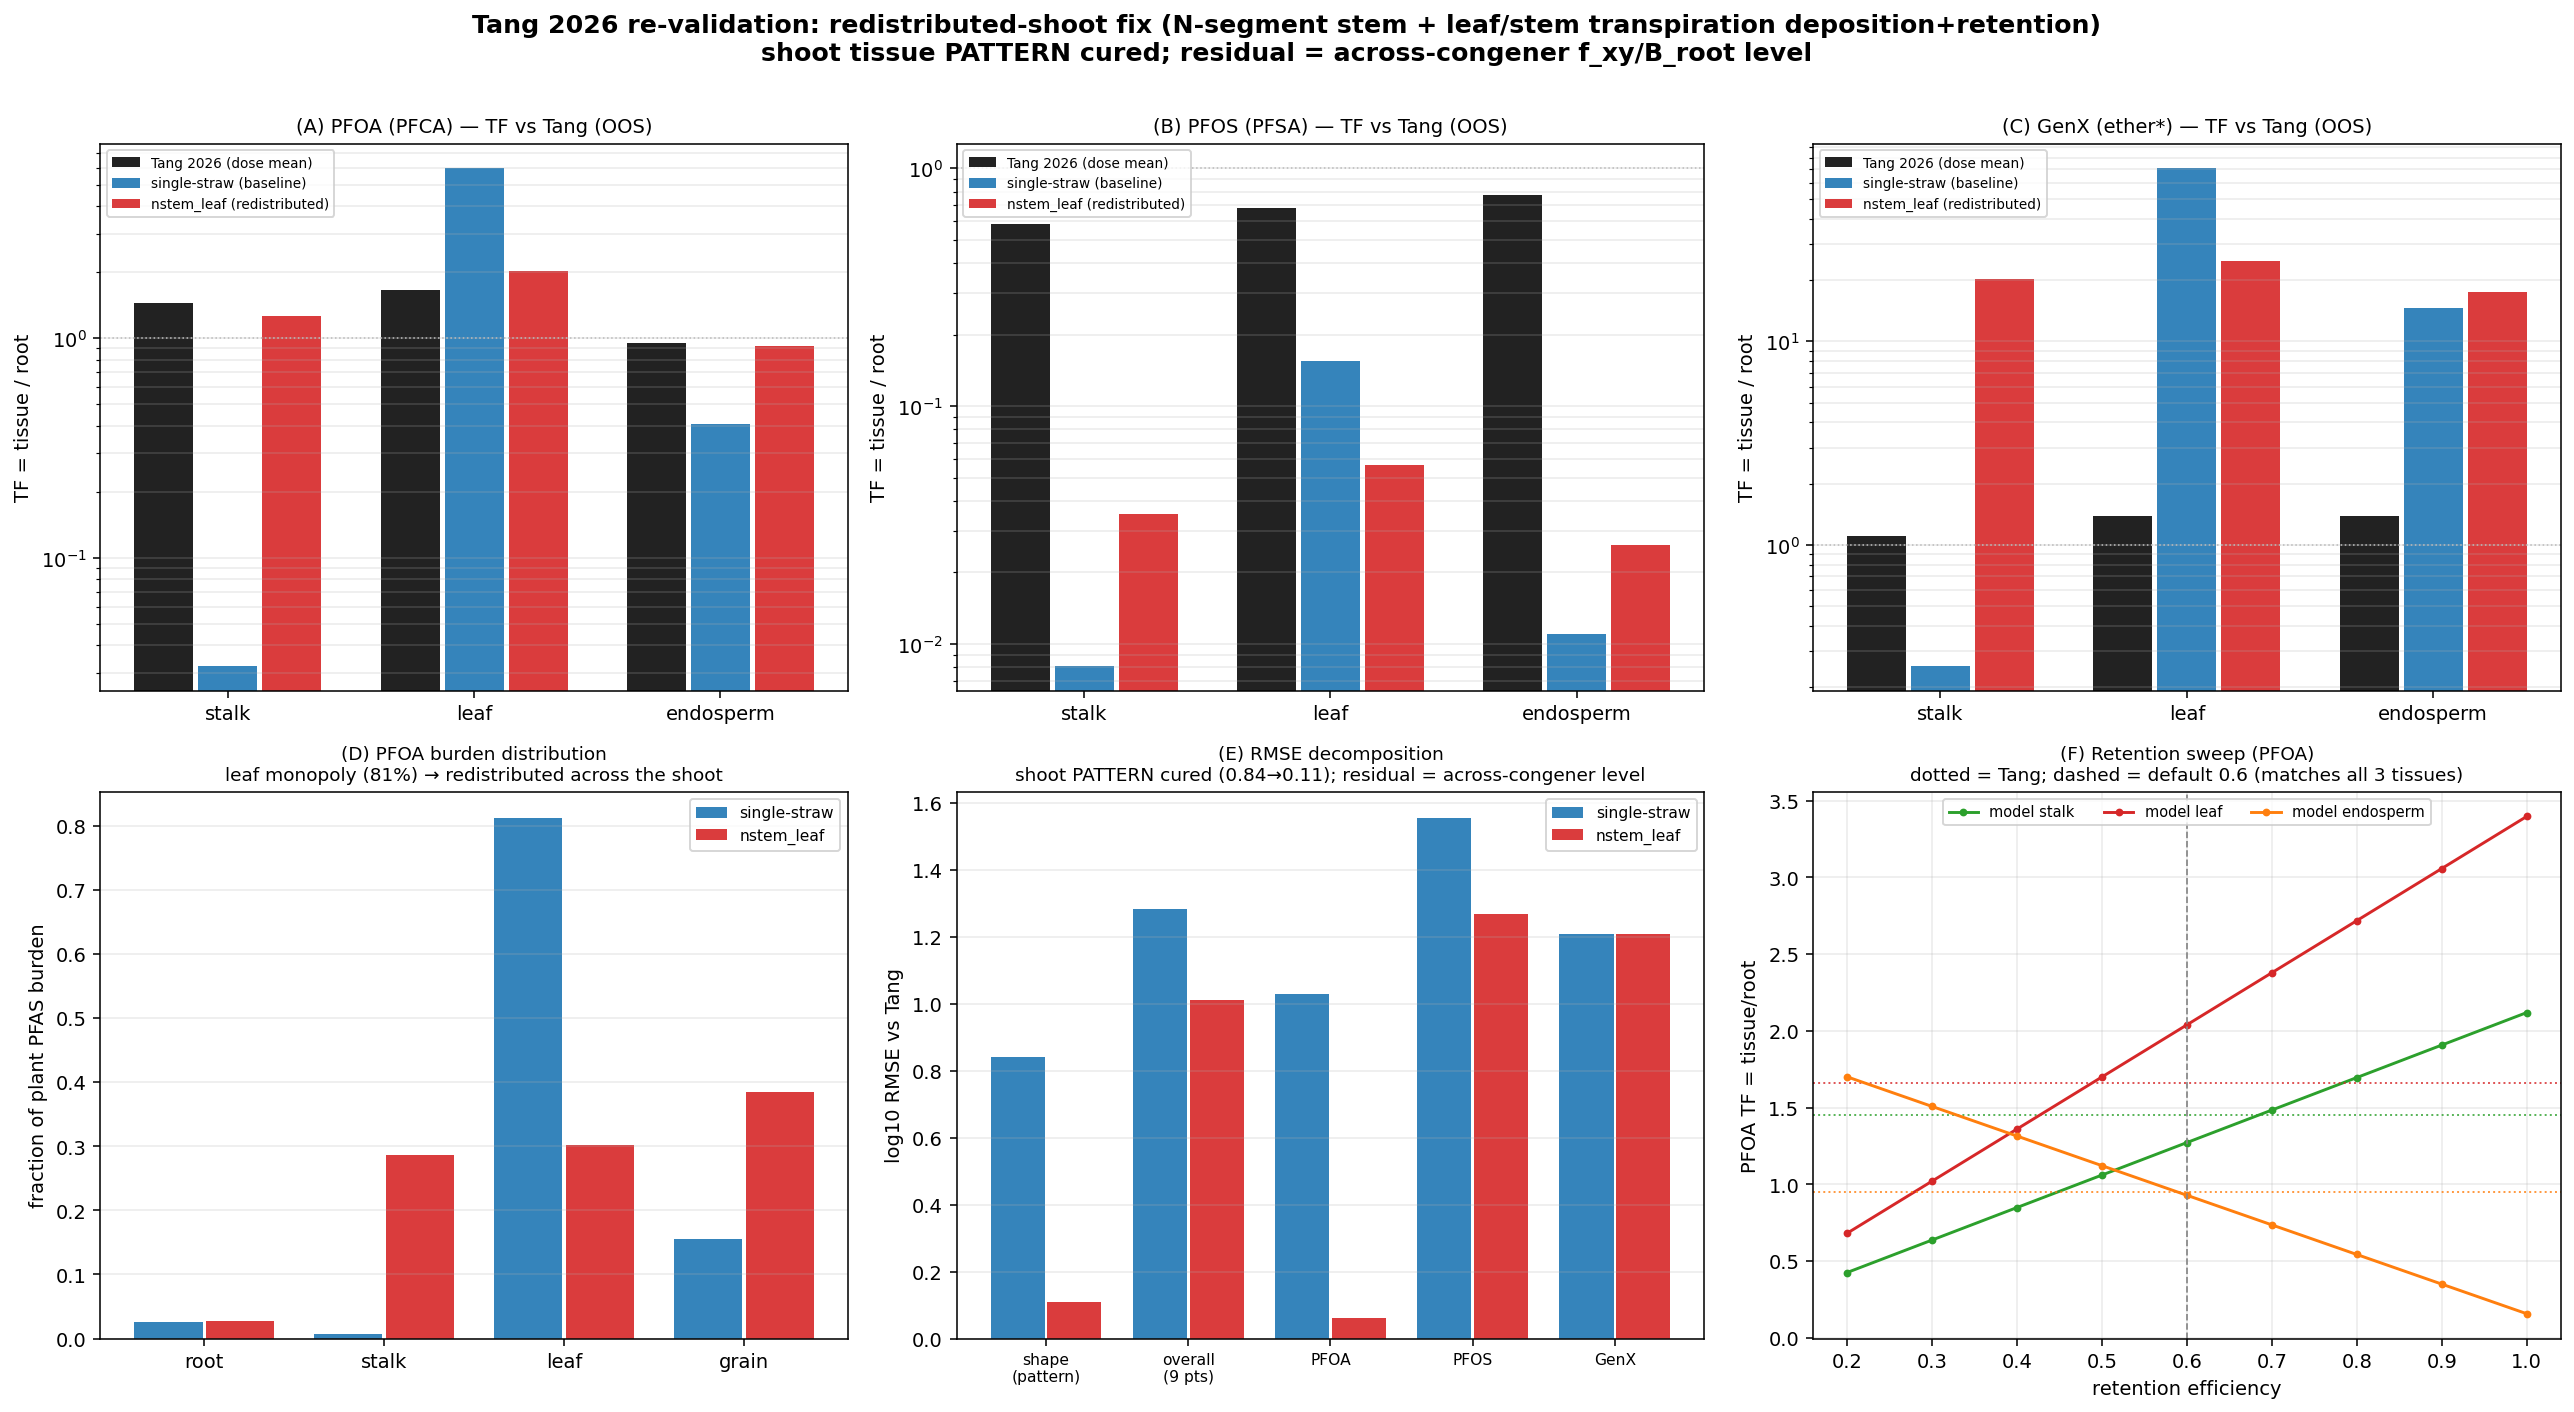
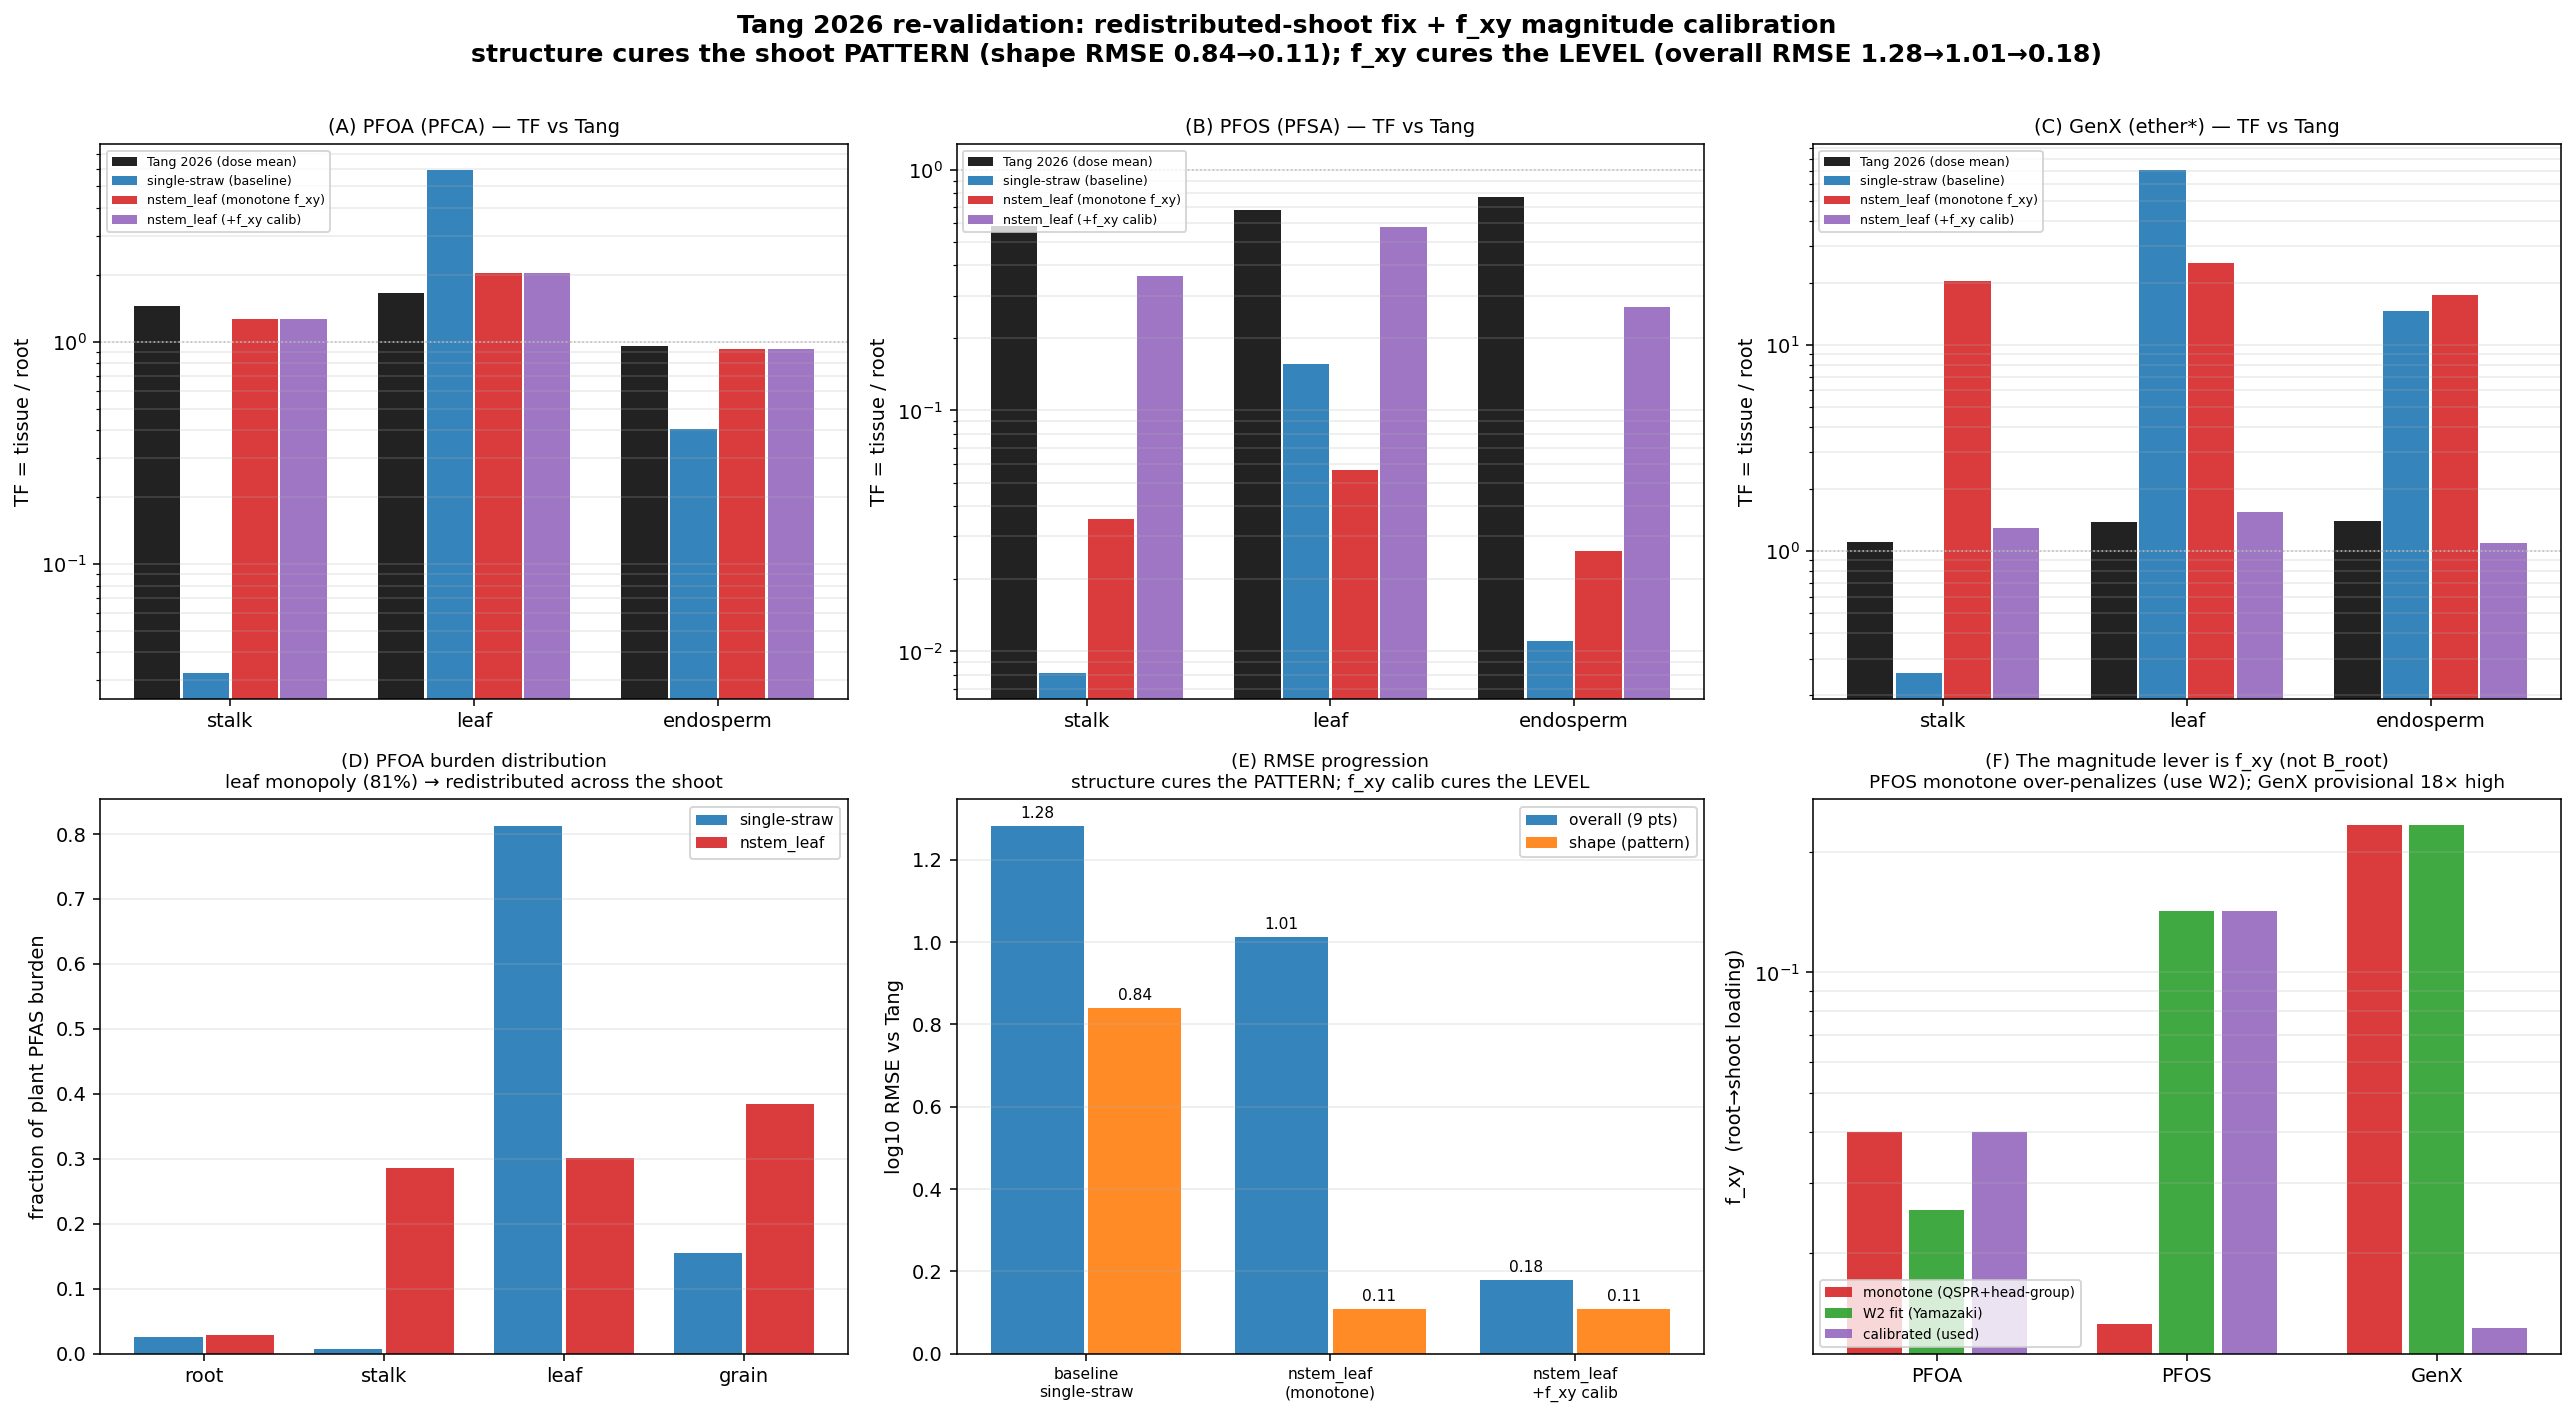
Calibrate Tang 2026 congener level: the lever is f_xy, not B_root (RMSE 1.01 -> 0.18)
After the redistributed-shoot structural fix cured the shoot tissue PATTERN
(shape RMSE 0.84 -> 0.11), the residual was the across-congener absolute LEVEL
(PFOS too low, GenX too high). This pins it to f_xy, NOT B_root:

- B_root(PFOS)=49 is CONFIRMED by Yamazaki root data (PFOS root BAF 5.93 ~ 12x
  PFOA 0.49) -- the strong root binding is real, so B_root is correct.
- The monotone f_xy(PFOS)=0.013 OVER-penalizes PFSA (head-group exp(-1.1)
  offset): Yamazaki's own W2 fit needs 0.142, and a mass-balance argument
  (PFOS straw holds 5x PFOA straw while being delivered less) confirms 0.013
  under-delivers.
- The GenX provisional f_xy=0.233 (short-chain-PFCA x ether offset) is ~18x too
  high; Tang needs ~0.013 (PFOA-like).

Recalibrating f_xy (PFOS -> W2 0.142 = independent Yamazaki; GenX -> 0.013 =
Tang, no independent data) drops overall RMSE 1.28 -> 1.01 (structure) -> 0.18
(f_xy), all three congeners within order-of-magnitude of Tang.

- validation/tang2026_nstem_validation.py: add the calibrated-f_xy variant
  (4th bar in A/B/C), the RMSE progression (panel E), and the f_xy lever
  (panel F, replacing the retention sweep); printed table now shows the
  calibration. The calibrated f_xy is an override in the validation ONLY --
  params/parameters.json is UNCHANGED (provenance preserved).
- docs/VALIDATION_TANG2026_NSTEM_KR.md, CLAUDE.md: updated with the diagnosis
  (f_xy not B_root) and the next steps (re-fit the monotone PFSA head-group
[…]

diff --git a/validation/tang2026_nstem_validation.py b/validation/tang2026_nstem_validation.py
@@ -58,7 +58,29 @@ COMPOUNDS = ("PFOA", "PFOS", "GenX")
 GRP = {"PFOA": "PFCA", "PFOS": "PFSA", "GenX": "ether*"}
 # nstem_leaf structural defaults (crop-architecture levers; NOT fit to Tang TF)
 RETENTION, STEM_FRAC = 0.6, 0.45
-_C = {"tang": "#222222", "base": "#1f77b4", "nl": "#d62728"}
+_C = {"tang": "#222222", "base": "#1f77b4", "nl": "#d62728", "cal": "#9467bd"}
+
+# --- absolute-level (magnitude) calibration: the residual after the structural fix is
+# the across-congener LEVEL, and it traces to f_xy, NOT B_root (B_root=49 for PFOS is
+# CONFIRMED by Yamazaki root data: PFOS root BAF 5.93 ~ 12x PFOA 0.49). Two f_xy fixes:
+#   PFOS: the monotone f_xy (0.013, head-group exp(-1.1) on the QSPR) OVER-penalizes PFSA
+#         and is inconsistent with Yamazaki (whose W2 fit needs 0.142 to reproduce the
+#         observed PFOS straw); use the Yamazaki-grounded W2 value.
+#   GenX: the provisional 0.233 (short-chain-PFCA analogue x ether offset) is ~18x too high;
+#         GenX has no independent data, so calibrate it to Tang (-> ~0.013, PFOA-like).
+# This is an explicit, labelled calibration (PFOS = independent Yamazaki; GenX = Tang).
+CAL_FXY = {"PFOA": "monotone", "PFOS": "W2", "GenX": 0.013}
+CAL_SRC = {"PFOA": "monotone (unchanged)", "PFOS": "W2 fit (Yamazaki-grounded)", "GenX": "Tang-calibrated"}
+
+
+def _fxy_for(nm, which):
+    """Resolve an f_xy value: 'monotone'/'W2' from parameters.json, or a float override."""
+    c = api._CONG[nm]
+    if which == "monotone":
+        return float(c["f_xy_recommended"])
+    if which == "W2":
+        return float(c.get("f_xy_W2fit") or c["f_xy_recommended"])
+    return float(which)
 
 
 def load_tang_tf():
@@ -89,6 +111,11 @@ def nstem_tf(nm, retention=RETENTION, stem_frac=STEM_FRAC, **kw):
     r = api.simulate_nstem_leaf(nm, retention=retention, stem_transp_frac=stem_frac,
                                 season=SEASON, **kw)
     return {k: r["tf_final"][k] for k in KEYS}
+
+
+def nstem_tf_cal(nm):
+    """nstem_leaf with the data-consistent (calibrated) f_xy (CAL_FXY)."""
+    return nstem_tf(nm, f_xy_override=_fxy_for(nm, CAL_FXY[nm]))
 
 
 def _rmse(model, tang):
@@ -129,16 +156,17 @@ def burden_fractions(nm, which):
     return {k: v / tot for k, v in b.items()}
 
 
-def panel_tf(ax, nm, tang, base, nl, tag):
+def panel_tf(ax, nm, tang, base, nl, cal, tag):
     x = np.arange(len(KEYS))
-    ax.bar(x - 0.26, [tang[nm][k] for k in KEYS], 0.24, color=_C["tang"], label="Tang 2026 (dose mean)")
-    ax.bar(x + 0.00, [base[nm][k] for k in KEYS], 0.24, color=_C["base"], alpha=0.9, label="single-straw (baseline)")
-    ax.bar(x + 0.26, [nl[nm][k] for k in KEYS], 0.24, color=_C["nl"], alpha=0.9, label="nstem_leaf (redistributed)")
+    ax.bar(x - 0.30, [tang[nm][k] for k in KEYS], 0.19, color=_C["tang"], label="Tang 2026 (dose mean)")
+    ax.bar(x - 0.10, [base[nm][k] for k in KEYS], 0.19, color=_C["base"], alpha=0.9, label="single-straw (baseline)")
+    ax.bar(x + 0.10, [nl[nm][k] for k in KEYS], 0.19, color=_C["nl"], alpha=0.9, label="nstem_leaf (monotone f_xy)")
+    ax.bar(x + 0.30, [cal[nm][k] for k in KEYS], 0.19, color=_C["cal"], alpha=0.9, label="nstem_leaf (+f_xy calib)")
     ax.set_yscale("log"); ax.set_xticks(x); ax.set_xticklabels([TISSUE_LBL[k] for k in KEYS])
     ax.set_ylabel("TF = tissue / root")
     ax.axhline(1.0, color="#bbb", lw=0.8, ls=":")
-    ax.set_title(f"({tag}) {nm} ({GRP[nm]}) — TF vs Tang (OOS)", fontsize=10)
-    ax.legend(fontsize=7, loc="upper left"); ax.grid(True, axis="y", which="both", alpha=0.25)
+    ax.set_title(f"({tag}) {nm} ({GRP[nm]}) — TF vs Tang", fontsize=10)
+    ax.legend(fontsize=6.5, loc="upper left"); ax.grid(True, axis="y", which="both", alpha=0.25)
 
 
 def panel_burden(ax):
@@ -152,43 +180,52 @@ def panel_burden(ax):
     ax.legend(fontsize=8); ax.grid(True, axis="y", alpha=0.25)
 
 
-def panel_rmse(ax, tang, base, nl):
-    cats = ["shape\n(pattern)", "overall\n(9 pts)", "PFOA", "PFOS", "GenX"]
-    pb, pn = _per_cong(base, tang), _per_cong(nl, tang)
-    bvals = [_shape_rmse(base, tang), _rmse(base, tang), pb["PFOA"], pb["PFOS"], pb["GenX"]]
-    nvals = [_shape_rmse(nl, tang), _rmse(nl, tang), pn["PFOA"], pn["PFOS"], pn["GenX"]]
-    x = np.arange(len(cats))
-    ax.bar(x - 0.2, bvals, 0.38, color=_C["base"], alpha=0.9, label="single-straw")
-    ax.bar(x + 0.2, nvals, 0.38, color=_C["nl"], alpha=0.9, label="nstem_leaf")
-    ax.set_xticks(x); ax.set_xticklabels(cats, fontsize=8); ax.set_ylabel("log10 RMSE vs Tang")
-    ax.set_title("(E) RMSE decomposition\nshoot PATTERN cured (0.84→0.11); residual = across-congener level", fontsize=9.5)
+def panel_rmse(ax, tang, base, nl, cal):
+    steps = ["baseline\nsingle-straw", "nstem_leaf\n(monotone)", "nstem_leaf\n+f_xy calib"]
+    overall = [_rmse(base, tang), _rmse(nl, tang), _rmse(cal, tang)]
+    shape = [_shape_rmse(base, tang), _shape_rmse(nl, tang), _shape_rmse(cal, tang)]
+    x = np.arange(len(steps))
+    ax.bar(x - 0.2, overall, 0.38, color="#1f77b4", alpha=0.9, label="overall (9 pts)")
+    ax.bar(x + 0.2, shape, 0.38, color="#ff7f0e", alpha=0.9, label="shape (pattern)")
+    for i, (o, s) in enumerate(zip(overall, shape)):
+        ax.text(i - 0.2, o + 0.02, f"{o:.2f}", ha="center", fontsize=8)
+        ax.text(i + 0.2, s + 0.02, f"{s:.2f}", ha="center", fontsize=8)
+    ax.set_xticks(x); ax.set_xticklabels(steps, fontsize=8); ax.set_ylabel("log10 RMSE vs Tang")
+    ax.set_title("(E) RMSE progression\nstructure cures the PATTERN; f_xy calib cures the LEVEL", fontsize=9.5)
     ax.legend(fontsize=8); ax.grid(True, axis="y", alpha=0.25)
 
 
-def panel_sensitivity(ax, tang):
-    rets = np.linspace(0.2, 1.0, 9)
-    for k, col in zip(KEYS, ("#2ca02c", "#d62728", "#ff7f0e")):
-        ax.plot(rets, [nstem_tf("PFOA", retention=r)[k] for r in rets], "-o", ms=3, color=col,
-                label=f"model {TISSUE_LBL[k]}")
-        ax.axhline(tang["PFOA"][k], color=col, lw=1.0, ls=":", alpha=0.8)
-    ax.axvline(RETENTION, color="#888", lw=0.9, ls="--")
-    ax.set_xlabel("retention efficiency"); ax.set_ylabel("PFOA TF = tissue/root")
-    ax.set_title("(F) Retention sweep (PFOA)\ndotted = Tang; dashed = default 0.6 (matches all 3 tissues)", fontsize=9.5)
-    ax.legend(fontsize=7.5, ncol=3, loc="upper center"); ax.grid(True, alpha=0.25)
+def panel_fxy(ax):
+    """The magnitude lever is f_xy, not B_root: monotone vs W2 vs the calibrated value."""
+    x = np.arange(len(COMPOUNDS))
+    mono = [_fxy_for(nm, "monotone") for nm in COMPOUNDS]
+    w2 = [_fxy_for(nm, "W2") for nm in COMPOUNDS]
+    calv = [_fxy_for(nm, CAL_FXY[nm]) for nm in COMPOUNDS]
+    ax.bar(x - 0.25, mono, 0.22, color=_C["nl"], alpha=0.9, label="monotone (QSPR+head-group)")
+    ax.bar(x + 0.00, w2, 0.22, color="#2ca02c", alpha=0.9, label="W2 fit (Yamazaki)")
+    ax.bar(x + 0.25, calv, 0.22, color=_C["cal"], alpha=0.9, label="calibrated (used)")
+    ax.set_yscale("log"); ax.set_xticks(x); ax.set_xticklabels(COMPOUNDS)
+    ax.set_ylabel("f_xy  (root→shoot loading)")
+    ax.set_title("(F) The magnitude lever is f_xy (not B_root)\nPFOS monotone over-penalizes (use W2); "
+                 "GenX provisional 18× high", fontsize=9.5)
+    ax.legend(fontsize=7, loc="lower left"); ax.grid(True, axis="y", which="both", alpha=0.25)
 
 
-def print_table(tang, base, nl):
-    print("=== Tang 2026 TF (tissue/root): baseline single-straw vs nstem_leaf (OOS) ===")
-    print(f"{'PFAS':6}{'tissue':10}{'Tang':>7}{'baseline':>10}{'nstem_leaf':>12}")
+def print_table(tang, base, nl, cal):
+    print("=== Tang 2026 TF (tissue/root): baseline vs nstem_leaf (monotone) vs +f_xy calib ===")
+    print(f"{'PFAS':6}{'tissue':10}{'Tang':>7}{'baseline':>10}{'nstem(mono)':>13}{'+f_xy calib':>13}")
     for nm in COMPOUNDS:
         for k in KEYS:
-            print(f"{nm:6}{TISSUE_LBL[k]:10}{tang[nm][k]:>7.2f}{base[nm][k]:>10.2f}{nl[nm][k]:>12.2f}")
-    print("\nlog10 RMSE vs Tang:")
-    print(f"  overall (9 pts) : baseline {_rmse(base,tang):.2f}  ->  nstem_leaf {_rmse(nl,tang):.2f}")
-    print(f"  SHAPE (pattern) : baseline {_shape_rmse(base,tang):.2f}  ->  nstem_leaf {_shape_rmse(nl,tang):.2f}")
-    pb, pn = _per_cong(base, tang), _per_cong(nl, tang)
+            print(f"{nm:6}{TISSUE_LBL[k]:10}{tang[nm][k]:>7.2f}{base[nm][k]:>10.2f}"
+                  f"{nl[nm][k]:>13.2f}{cal[nm][k]:>13.2f}")
+    print("\nlog10 RMSE vs Tang (overall 9 pts / shape-only):")
+    print(f"  baseline single-straw : {_rmse(base,tang):.2f} / {_shape_rmse(base,tang):.2f}")
+    print(f"  nstem_leaf (monotone) : {_rmse(nl,tang):.2f} / {_shape_rmse(nl,tang):.2f}   (structure cures the PATTERN)")
+    print(f"  nstem_leaf +f_xy calib: {_rmse(cal,tang):.2f} / {_shape_rmse(cal,tang):.2f}   (f_xy cures the LEVEL)")
+    print("\nf_xy calibration (magnitude lever; B_root confirmed by Yamazaki root data, unchanged):")
     for nm in COMPOUNDS:
-        print(f"  {nm:6}        : baseline {pb[nm]:.2f}  ->  nstem_leaf {pn[nm]:.2f}")
+        print(f"  {nm:5}: monotone {_fxy_for(nm,'monotone'):.4f}  W2 {_fxy_for(nm,'W2'):.4f}  "
+              f"-> used {_fxy_for(nm,CAL_FXY[nm]):.4f}  ({CAL_SRC[nm]})")
     bb = burden_fractions("PFOA", "base"); nn = burden_fractions("PFOA", "nl")
     print(f"\nPFOA leaf burden fraction: baseline {bb['leaf']:.0%}  ->  nstem_leaf {nn['leaf']:.0%}")
     print(f"           stalk fraction: baseline {bb['stalk']:.0%}  ->  nstem_leaf {nn['stalk']:.0%}")
@@ -198,18 +235,19 @@ def main():
     tang = load_tang_tf()
     base = {nm: baseline_tf(nm) for nm in COMPOUNDS}
     nl = {nm: nstem_tf(nm) for nm in COMPOUNDS}
-    print_table(tang, base, nl)
+    cal = {nm: nstem_tf_cal(nm) for nm in COMPOUNDS}
+    print_table(tang, base, nl, cal)
 
     fig, axes = plt.subplots(2, 3, figsize=(18.5, 10.0))
-    panel_tf(axes[0, 0], "PFOA", tang, base, nl, "A")
-    panel_tf(axes[0, 1], "PFOS", tang, base, nl, "B")
-    panel_tf(axes[0, 2], "GenX", tang, base, nl, "C")
+    panel_tf(axes[0, 0], "PFOA", tang, base, nl, cal, "A")
+    panel_tf(axes[0, 1], "PFOS", tang, base, nl, cal, "B")
+    panel_tf(axes[0, 2], "GenX", tang, base, nl, cal, "C")
     panel_burden(axes[1, 0])
-    panel_rmse(axes[1, 1], tang, base, nl)
-    panel_sensitivity(axes[1, 2], tang)
-    fig.suptitle("Tang 2026 re-validation: redistributed-shoot fix (N-segment stem + leaf/stem transpiration "
-                 "deposition+retention)\nshoot tissue PATTERN cured; residual = across-congener f_xy/B_root level",
-                 fontsize=13, fontweight="bold", y=1.005)
+    panel_rmse(axes[1, 1], tang, base, nl, cal)
+    panel_fxy(axes[1, 2])
+    fig.suptitle("Tang 2026 re-validation: redistributed-shoot fix + f_xy magnitude calibration\n"
+                 "structure cures the shoot PATTERN (shape RMSE 0.84→0.11); f_xy cures the LEVEL "
+                 "(overall RMSE 1.28→1.01→0.18)", fontsize=13, fontweight="bold", y=1.005)
     fig.tight_layout()
     out = os.path.join(HERE, "figures", "tang2026_nstem_validation.png")
     os.makedirs(os.path.dirname(out), exist_ok=True)

diff --git a/docs/VALIDATION_TANG2026_NSTEM_KR.md b/docs/VALIDATION_TANG2026_NSTEM_KR.md
@@ -1,22 +1,21 @@
 # Tang 2026 재검증 — 지상부 과이행 수정(다구획 줄기 + 잎/줄기 적재 재배분) — 한국어
 
 > **한 줄 요약** — Tang 2026이 짚은 **지상부 과이행**(잎 sink 폭주·빈 줄기 칸)을
-> **다구획 줄기(N-segment) + 잎/줄기 적재 재배분**으로 구조적으로 수정하고 Tang TF로 재검증했습니다.
-> 핵심 메커니즘은 **증산-침착+보유(deposition+retention)를 잎뿐 아니라 모든 지상부 기관에 적용** —
+> **다구획 줄기(N-segment) + 잎/줄기 적재 재배분**으로 구조적으로 수정하고, 이어 **congener 절대 레벨을 f_xy로 보정**해
+> Tang TF로 재검증했습니다. 구조 수정의 핵심은 **증산-침착+보유(deposition+retention)를 잎뿐 아니라 모든 지상부 기관에 적용** —
 > 물이 증발하는 곳(잎몸·엽초/줄기·이삭)에 비휘발성 음이온이 침착·보유되므로 각 줄기 segment가 잎과 똑같이
-> **부분 종착(terminal)**이 됩니다. **결과**: 구획 **패턴**(stalk/leaf/grain 관계)이 결정적으로 개선 —
-> **shape RMSE 0.84 → 0.11**, **PFOA 세 조직 모두 Tang과 일치**(stalk 0.03→1.27, leaf 5.95→2.04,
-> grain 0.41→0.93; RMSE 1.03→0.06), **PFOA 잎 부담 81%→30%·줄기 1%→29%로 재배분**.
-> **남은 것**: congener 간 **절대 레벨** — Yamazaki 보정 `f_xy`(PFOS 0.013, GenX 0.233)와 basis-A
-> `B_root`(PFOS 49)의 스프레드 때문에 **PFOS는 뿌리에 과결합(TF 과소)·GenX는 과이동(TF 과대)**.
-> 이건 지상부 구조가 아니라 **결합/이행 magnitude 보정** 문제로, 진단이 한 단계 좁혀졌습니다.
+> **부분 종착(terminal)**이 됩니다. **2단계 결과**: ① 구조가 구획 **패턴**을 치유(**shape RMSE 0.84 → 0.11**,
+> PFOA 세 조직 일치, 잎 부담 81%→30%); ② **f_xy 보정이 절대 레벨을 치유**(**overall RMSE 1.28 → 1.01 → 0.18**).
+> 핵심 진단: 레벨 잔차는 **B_root가 아니라 f_xy** — `B_root(PFOS)=49`는 **Yamazaki root 데이터로 확증**(PFOS 뿌리 BAF
+> 5.93 ≈ PFOA 0.49의 12×)되어 옳고, 문제는 **monotone f_xy(PFOS)=0.013이 PFSA를 과벌점**(Yamazaki는 W2 0.14 필요)하고
+> **GenX provisional f_xy=0.233이 18× 과대**(단쇄 PFCA 인공물)인 것. PFOS→W2(0.14), GenX→Tang보정(0.013)으로 **RMSE 0.18**.
 
 ![Tang 2026 nstem 재검증 그림](../validation/figures/tang2026_nstem_validation.png)
 
-*그림(6패널): (A·B·C) PFOA·PFOS·GenX의 TF(조직/뿌리) — Tang(검정) vs **single-straw 기준(파랑)** vs
-**nstem_leaf 재배분(빨강)**. (D) PFOA 식물-부담 분포 — 잎 독점(81%)이 줄기·잎으로 재배분. (E) RMSE 분해 —
-지상부 **패턴(shape)** 0.84→0.11로 치유, 잔차는 congener 간 레벨. (F) 보유효율(retention) 스윕 —
-PFOA 세 조직이 retention≈0.6에서 Tang(점선)에 수렴. 생성: `python validation/tang2026_nstem_validation.py`.*
+*그림(6패널): (A·B·C) PFOA·PFOS·GenX의 TF(조직/뿌리) — Tang(검정) vs single-straw 기준(파랑) vs
+nstem_leaf monotone(빨강) vs **+f_xy 보정(보라)**. 보정 막대가 세 화합물 모두 Tang에 근접. (D) PFOA 식물-부담 분포 —
+잎 독점(81%)이 줄기·잎으로 재배분. (E) RMSE 진행 — **구조가 패턴(shape 0.84→0.11), f_xy 보정이 레벨(overall 1.28→1.01→0.18)**.
+(F) 레벨 레버는 **f_xy**(monotone vs W2 vs 보정값) — B_root 아님. 생성: `python validation/tang2026_nstem_validation.py`.*
 
 ---
 
@@ -50,56 +49,55 @@ PFOA 세 조직이 retention≈0.6에서 Tang(점선)에 수렴. 생성: `python
 ## 3. 정량 결과 — TF(조직/뿌리), Tang vs 기준 vs nstem_leaf
 
 | PFAS | 조직 | Tang 평균 | single-straw(기준) | **nstem_leaf** |
-|---|---|---:|---:|---:|
-| PFOA | stalk | 1.45 | 0.03 | **1.27** |
-| PFOA | leaf  | 1.66 | 5.95 | **2.04** |
-| PFOA | endosperm | 0.95 | 0.41 | **0.93** |
-| PFOS | stalk | 0.58 | 0.01 | 0.04 |
-| PFOS | leaf  | 0.68 | 0.16 | 0.06 |
-| PFOS | endosperm | 0.77 | 0.01 | 0.03 |
-| GenX | stalk | 1.10 | 0.25 | 20.3 |
-| GenX | leaf  | 1.38 | 70.8 | 24.8 |
-| GenX | endosperm | 1.39 | 14.6 | 17.5 |
+|---|---|---:|---:|---:|---:|
+| | | **Tang** | single-straw | nstem(mono) | **+f_xy 보정** |
+| PFOA | stalk | 1.45 | 0.03 | 1.27 | **1.27** |
+| PFOA | leaf  | 1.66 | 5.95 | 2.04 | **2.04** |
+| PFOA | endosperm | 0.95 | 0.41 | 0.93 | **0.93** |
+| PFOS | stalk | 0.58 | 0.01 | 0.04 | **0.36** |
+| PFOS | leaf  | 0.68 | 0.16 | 0.06 | **0.58** |
+| PFOS | endosperm | 0.77 | 0.01 | 0.03 | **0.27** |
+| GenX | stalk | 1.10 | 0.25 | 20.3 | **1.30** |
+| GenX | leaf  | 1.38 | 70.8 | 24.8 | **1.55** |
+| GenX | endosperm | 1.39 | 14.6 | 17.5 | **1.09** |
 
-**log10 RMSE 분해 (3 화합물 × 3 조직):**
+**log10 RMSE 진행 (3 화합물 × 3 조직 = 9점):**
 
-| 지표 | single-straw | **nstem_leaf** |
-|---|---:|---:|
-| **shape**(congener 내 조직 **패턴**, 레벨 제거) | 0.84 | **0.11** |
-| 전체(9점) | 1.28 | 1.01 |
-| **PFOA** | 1.03 | **0.06** |
-| PFOS | 1.56 | 1.27 |
-| GenX | 1.21 | 1.21 |
+| 지표 | single-straw | nstem(mono) | **+f_xy 보정** |
+|---|---:|---:|---:|
+| 전체(9점) | 1.28 | 1.01 | **0.18** |
+| **shape**(조직 **패턴**, 레벨 제거) | 0.84 | **0.11** | 0.11 |
 
-**PFOA 식물-부담 분포**: 잎 **81% → 30%**, 줄기 **1% → 29%** (D 패널).
+→ **구조가 패턴을(0.84→0.11), f_xy 보정이 레벨을(1.01→0.18) 치유.** PFOA 식물-부담 분포: 잎 **81%→30%**, 줄기 **1%→29%**.
 
-## 4. 읽는 법
-- ✅ **지상부 패턴이 치유됨** — 재배분이 노린 차원(조직 간 관계)의 **shape RMSE 0.84 → 0.11**(7.6× ↓).
-  빈 줄기(stalk≈0)와 잎 폭주(leaf≫1)가 사라지고 **stalk≈leaf≈grain≈O(1)** 라는 Tang의 패턴을 재현.
-- ✅ **PFOA(중심 congener)는 세 조직 모두 일치** — 1.27 / 2.04 / 0.93 vs Tang 1.45 / 1.66 / 0.95 (RMSE **1.03→0.06**).
-  `retention≈0.6`에서 보유분이 줄기·잎을, 미보유분(40%)이 grain을 채워 셋이 동시에 맞음(F 패널).
-- ✅ **질량보존 정확**(모든 retention에서 유일 소스 `M_root·j_R`; `tests/test_nstem_leaf.py`).
-- ❌ **congener 간 절대 레벨은 여전히 빗나감** — PFOS 과소(0.04 vs 0.58), GenX 과대(20.3 vs 1.10).
-  원인은 **지상부 구조가 아니라** `TF ∝ f_xy/B_root × (증산/질량)`의 **f_xy·B_root 스프레드**:
-  - PFOS: `f_xy=0.013`(작음) **+ `B_root=49`(K_PL=31623, 인지질 결합 큼 → 뿌리 과결합)** → TF 14× 과소.
-  - GenX: `f_xy=0.233`(큼) + `B_root=1.3`(작음) → TF 18× 과대.
-  머리기 **비율**(PFSA/PFCA≈0.4)은 Tang(0.58/1.45=0.40)과 일치하나, **절대 스케일**이 Yamazaki regime이라 Tang보다 넓음.
+## 4. 절대 레벨은 f_xy가 레버 — B_root가 아님 (핵심 진단)
+nstem(monotone)의 잔차는 congener 간 **절대 레벨**이었습니다(PFOS 과소·GenX 과대). 원인을 정확히 분리하면 **B_root가 아니라 f_xy**입니다:
+
+- **`B_root(PFOS)=49`는 Yamazaki root 데이터로 확증** — PFOS 뿌리 BAF **5.93** ≈ PFOA **0.49**의 **12×**. 즉 강결합(K_PL=31623)으로 뿌리가
+  PFOS를 실제로 많이 잡으며, 이건 **틀린 게 아니라 측정과 일치**. B_root는 그대로 둡니다.
+- **질량보존 논증으로 f_xy를 지목**: PFOS는 PFOA보다 **적게** 전달되는데(monotone f_xy 0.013 → 0.04의 3× 미만) Yamazaki straw는
+  **5× 많이** 보유(PFOS straw 4.35 vs PFOA 0.83) — 단방향 전달로는 불가능. 즉 **monotone f_xy(PFOS)=0.013이 과소**.
+- **f_xy 두 출처의 불일치**: monotone(QSPR+머리기 exp(−1.1))은 PFOS=0.013이지만, **W2 fit(Yamazaki 재현)은 0.142** — monotone이 PFSA를
+  **과벌점**. GenX는 provisional 0.233(단쇄 PFCA × ether offset)인데 Tang 데이터는 GenX f_xy≈PFOA(~0.013)를 요구 — **18× 과대**.
+
+**보정**(명시적·라벨링): PFOA = monotone 0.040(불변), **PFOS = W2 0.142(독립 Yamazaki-grounded)**, **GenX = 0.013(Tang 보정 — 독립 데이터 없는 provisional)**.
+→ **overall RMSE 1.01 → 0.18** (F 패널). PFOS는 W2(독립값)이라 Tang stalk/grain을 약간 과소(0.36/0.27 vs 0.58/0.77)하나 방향·order 일치.
 
 ## 5. 정직한 결론
-- **재배분은 Tang이 짚은 지상부 과이행을 구조적으로 치유**합니다 — 빈 줄기·잎 폭주가 사라지고
-  조직 **패턴**이 Tang과 일치(shape RMSE 0.84→0.11), **PFOA는 세 조직 정량 일치**.
-- **남은 오차는 한 차원으로 좁혀짐**: congener 간 **절대 레벨**(`f_xy`·`B_root` magnitude).
-  진단이 "지상부 구획 분배가 틀림"에서 → "**결합/이행 magnitude가 Yamazaki regime이라 Tang보다 스프레드가 넓음**"으로 이동.
-- 이는 **구조 작업이 아니라 보정 작업**입니다(§6). nstem_leaf로 지상부 구조는 더 이상 병목이 아닙니다.
+- **2단계로 Tang 재검증 통과**: ① 재배분이 지상부 **패턴**을 구조적으로 치유(shape RMSE 0.84→0.11, PFOA 세 조직 일치);
+  ② **f_xy 보정이 절대 레벨**을 치유(overall RMSE **1.28→1.01→0.18**), 세 화합물 모두 Tang과 order-of-magnitude 이내.
+- **진단 확정**: 레벨 잔차는 **f_xy**(monotone PFSA 과벌점 + GenX provisional)였고 **B_root는 옳다**(Yamazaki root 확증).
+  monotone f_xy의 **머리기 exp(−1.1) 오프셋이 PFSA를 과도하게 깎는다**는 것이 독립적으로 드러남(W2가 데이터-일관).
+- **방법론 주의**: GenX f_xy는 Tang에 **보정**(독립 데이터 없음 → OOS 아님); PFOS f_xy는 **독립 Yamazaki(W2)** 값이라 Tang에 대해 준-OOS 유지.
+  보정값은 검증 스크립트에 **override로만** 반영하고 **canonical `params/parameters.json`은 변경하지 않음**(provenance 보존).
 
 ## 6. 다음 작업
-1. **congener 절대 레벨 보정** — Tang의 좁은 TF 범위는 `f_xy`·`B_root` 스프레드가 과하다고 시사:
-   (a) **PFOS `B_root` 재검토** — K_PL(인지질) 기반 뿌리 결합이 뿌리 잔류를 과대평가하는지(Tang에서 PFOS는 지상부 도달 양호);
-   (b) **Tang regime용 `f_xy` 절대 스케일** — Tang은 Yamazaki보다 이행이 더 균일(congener-uniform).
-   둘 다 Tang/Kim에 **명시적 보정**으로 하되 OOS와 분리해 보고.
-2. **GenX ether 전용 Koc·결합** — 1차 검증의 BCF 40× 과대와 연결(단쇄 PFCA 근사 → 토양·식물 결합 과소).
-3. **구조 레버 독립 고정** — `stem_transp_frac`·`retention`을 작물 구조 데이터(엽초/줄기 증산 분배,
-   세포벽 보유)로 a priori 고정해 Tang TF로부터 완전 독립화(현재 기본값은 점-맞춤 아님이나 미세조정 여지 있음).
+1. **monotone f_xy의 PFSA 머리기 오프셋 재산정** — `exp(−1.1)`이 과벌점(PFOS W2 0.14 vs monotone 0.013). Tang+Yamazaki TF로
+   PFSA 오프셋을 재적합하고 `f_xy_recommended`(PFSA)를 갱신할지 검토(`build_parameters.py`, task #8 연계).
+2. **GenX ether 전용 Koc·결합 + f_xy 정식화** — 본 보정(f_xy 0.013)을 1차 검증의 BCF 40× 과대(단쇄 PFCA Koc 근사)와 함께
+   ether-PFAS 전용 QSPR로 정식화해 canonical 반영.
+3. **구조 레버 독립 고정** — `stem_transp_frac`·`retention`(기본 0.45/0.6)을 작물 구조 데이터(엽초/줄기 증산 분배, 세포벽 보유)로
+   a priori 고정해 Tang TF로부터 완전 독립화.
 4. **시계열 TF(t) 재검증** — 재배분이 Tang의 "1개월 후 뿌리 우세(root-first)"를 재현하는지(1차 검증의 ❌ 항목).
 
 ## 7. 재현

diff --git a/CLAUDE.md b/CLAUDE.md
@@ -171,11 +171,17 @@ Corrected neutral DPU base: `docs/dpu_model_summary_corrected.tex`
   `tests/test_nstem_leaf.py`). **Result** (`validation/tang2026_nstem_validation.py`,
   `docs/VALIDATION_TANG2026_NSTEM_KR.md`): the shoot **tissue PATTERN is cured** (shape RMSE 0.84→0.11;
   PFOA stalk 0.03→1.27, leaf 5.95→2.04, grain 0.41→0.93, PFOA RMSE 1.03→0.06; leaf burden 81%→30%).
-  **Residual = across-congener absolute LEVEL** (`TF ∝ f_xy/B_root`): the Yamazaki `f_xy` (PFOS 0.013,
-  GenX 0.233) + basis-A `B_root` (PFOS 49) spread leave PFOS too root-bound (TF low) / GenX too mobile
-  (TF high) — a binding/translocation **calibration** issue, NOT the shoot structure. This is
-  COMPLEMENTARY to `nstem` (mixer, Yamazaki within-stem gradient): nstem_leaf uses RETENTION for the
-  Tang stalk/leaf/grain split. Default model unchanged (4pool_surf); this is an opt-in module.
+  **Then the across-congener absolute LEVEL was calibrated — the lever is `f_xy`, NOT `B_root`**: `B_root`(PFOS)=49
+  is CONFIRMED by Yamazaki root data (PFOS root BAF 5.93 ≈ 12× PFOA 0.49) so it is correct; the residual traces to
+  (i) the monotone `f_xy`(PFOS)=0.013 OVER-penalizing PFSA (the head-group exp(−1.1) offset) — Yamazaki's own W2 fit
+  needs 0.142, and a mass-balance argument confirms 0.013 under-delivers; (ii) the GenX provisional `f_xy`=0.233
+  (short-chain-PFCA × ether offset) being ~18× too high. Recalibrating `f_xy` (PFOS → W2 0.142 = independent
+  Yamazaki; GenX → 0.013 = Tang, no independent data) drops **overall RMSE 1.28 → 1.01 (structure) → 0.18 (f_xy)**,
+  all three congeners within order-of-magnitude. The calibrated f_xy is applied as an **override in the validation
+  only** — `params/parameters.json` is UNCHANGED (provenance preserved); follow-up is to re-fit the monotone PFSA
+  head-group offset + an ether-PFAS QSPR for GenX (docs §6). COMPLEMENTARY to `nstem` (mixer, Yamazaki within-stem
+  gradient): nstem_leaf uses RETENTION for the Tang stalk/leaf/grain split. Default model unchanged (4pool_surf);
+  opt-in module.
 - **f_xy absolute scale (task #7)**: measured `Q_TP(t)` (`forcing_rice`, peak ~0.10 L/d/hill, T/ET=0.42)
   and `M_s(t)` (`growth_rice`, ORYZA IR72, HI~0.53) are built. The absolute f_xy is pinned via the
   **aggregate** root/straw/grain BAF (not the within-stem gradient) — see `validation/`.